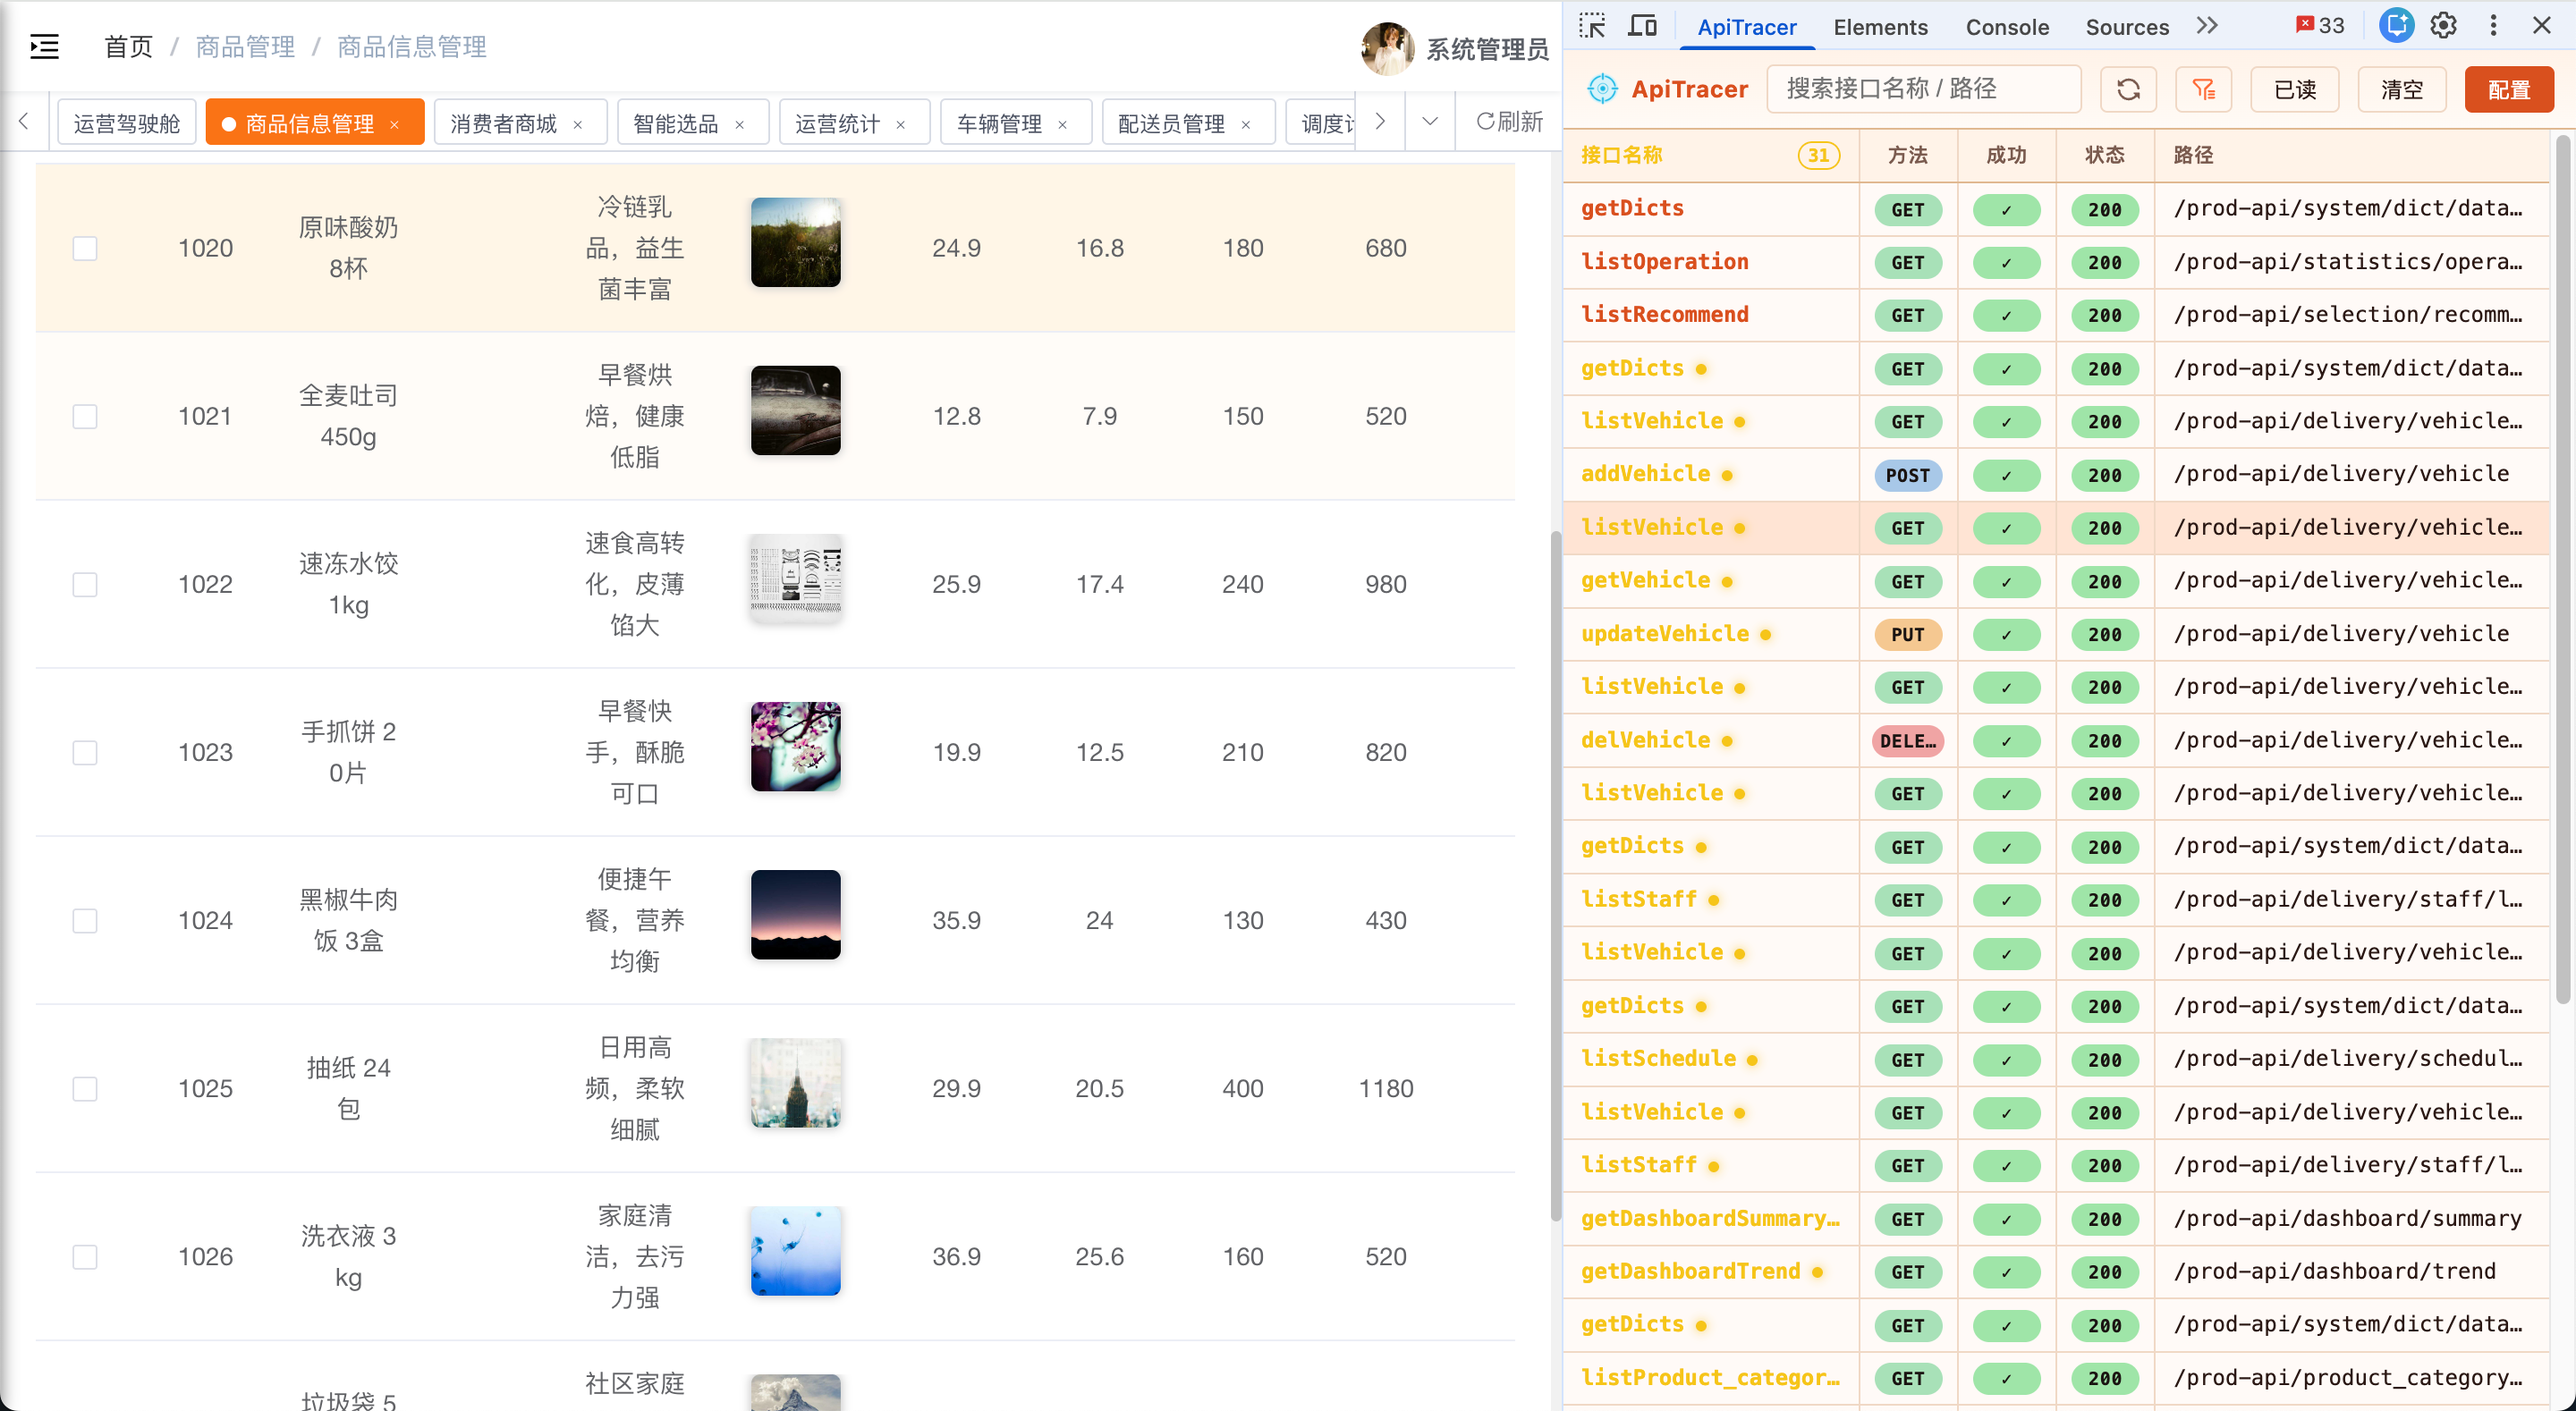
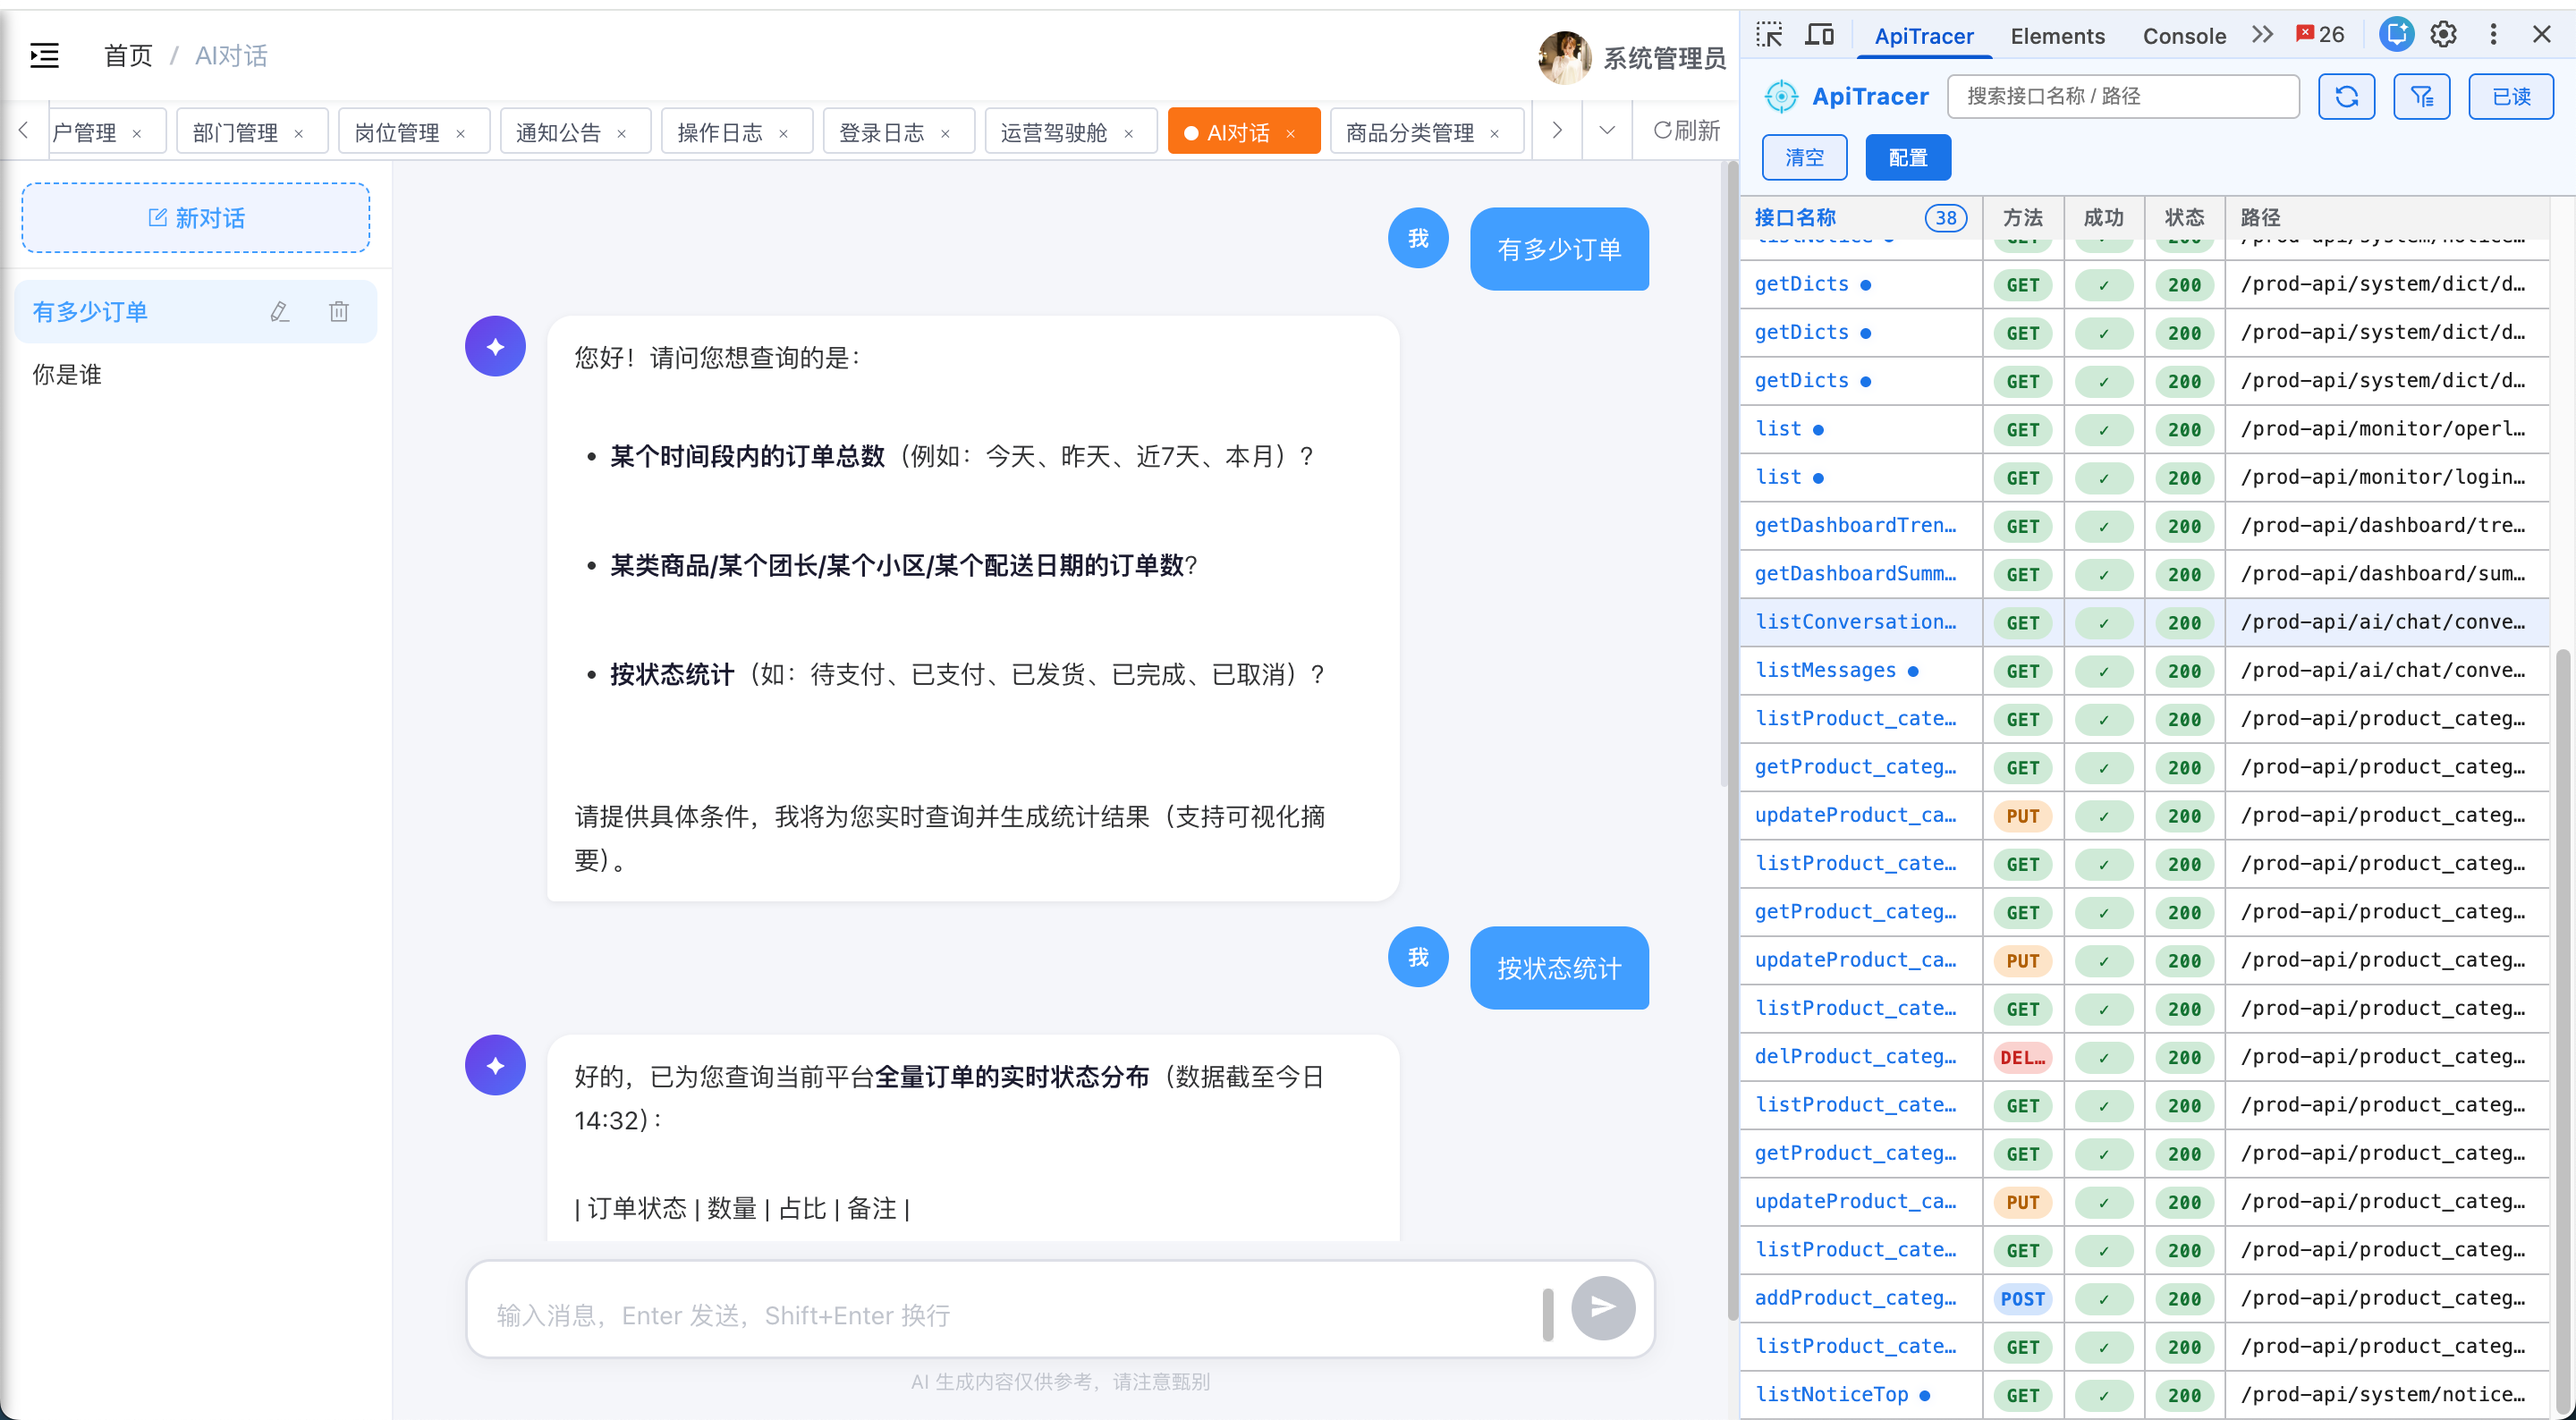
chore: fix the readme

diff --git a/README.md b/README.md
@@ -37,7 +37,7 @@ ApiTracer 的核心能力：
 <table>
   <tr>
     <td><img src="./assets/home.png" alt="ApiTracer 首页" /></td>
-    <td><img src="./assets/filter.png" alt="ApiTracer 筛选" /></td>
+    <td><img src="./assets/json.png" alt="ApiTracer 筛选" /></td>
   </tr>
   <tr>
     <td><img src="./assets/preview.png" alt="ApiTracer 预览" /></td>
